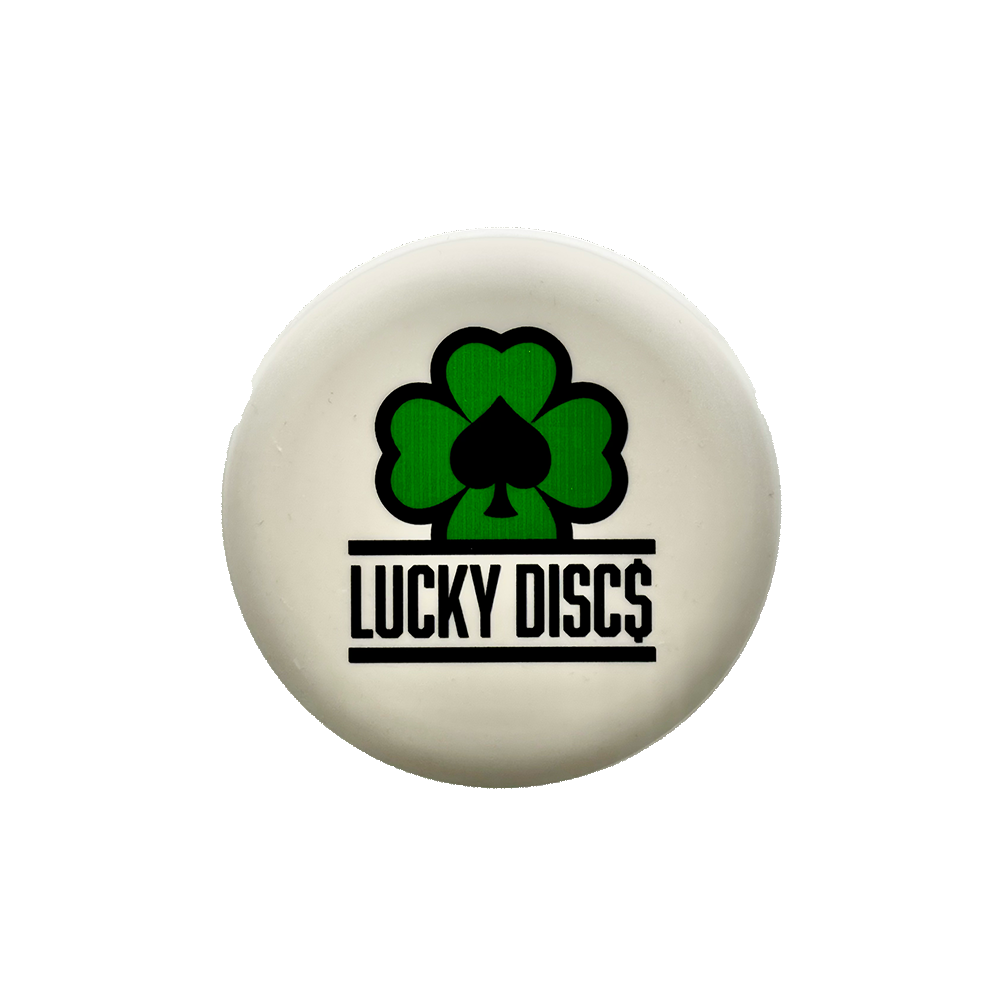
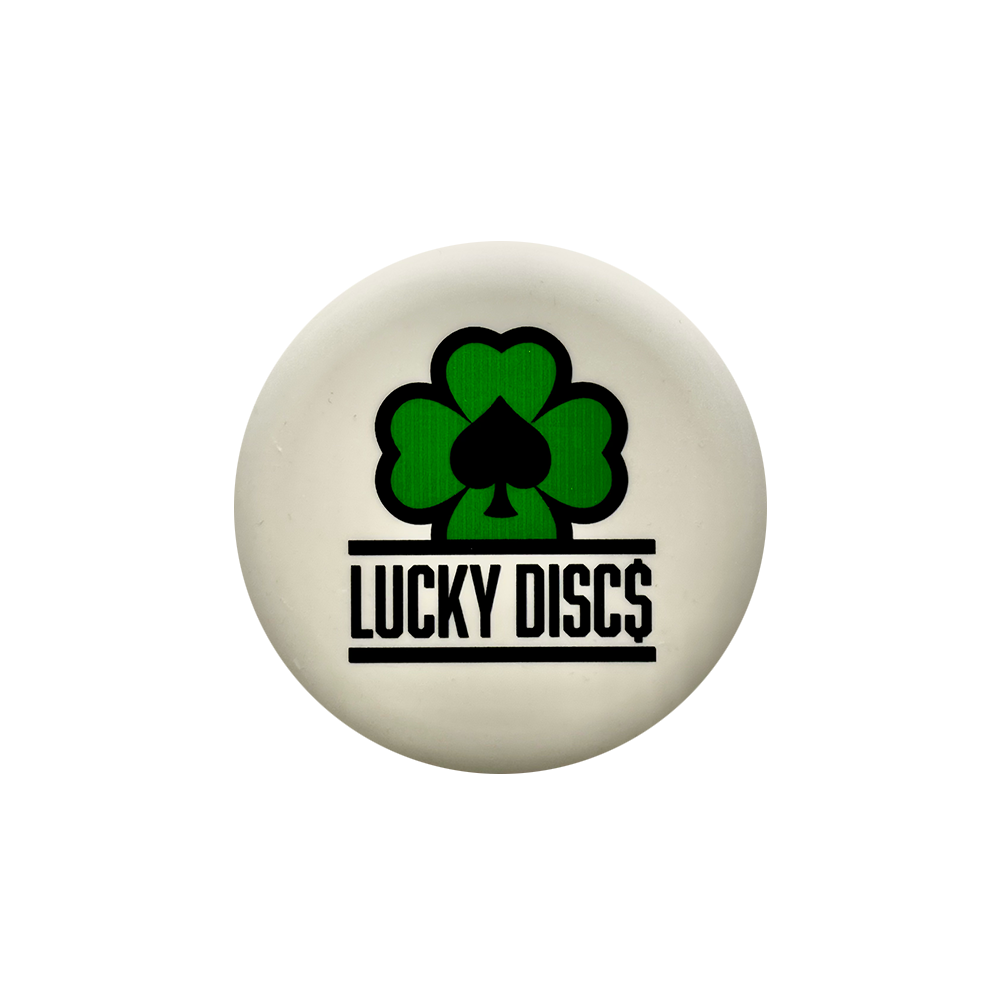
feat: puhdas markkerikuva (ei koloa) + Jailbreak kiekkoesittelyyn + galleria siistiksi
- marker.png: uusi puhdas kuva Drivesta (vanhassa harmaa kolo)
- FeaturedDisc uudistettu: 4 taytta promo-kuvaa (Treasure Hunt, Bank Robber, Money Shot, Jailbreak)
  siisteina kortteina hover-CTA:lla - ei enaa pienennysta/duplikaattitietoja (kuvissa jo nimi+lentoluvut)

diff --git a/src/components/FeaturedDisc.tsx b/src/components/FeaturedDisc.tsx
@@ -4,52 +4,12 @@ import { ArrowRight } from "lucide-react";
 import { Button } from "@/components/ui/button";
 import { useTranslation } from "@/hooks/useTranslation";
 
-interface DiscCard {
-  image: string;
-  name: string;
-  nameKey: string;
-  descKey: string;
-  type: string;
-  flightNumbers: { speed: number; glide: number; turn: number; fade: number };
-  accentColor: string;
-}
-
-const discs: DiscCard[] = [
-  {
-    image: "/images/brand/treasure-hunt-promo.webp",
-    name: "Treasure Hunt",
-    nameKey: "discs.treasureHunt",
-    descKey: "discs.treasureHuntDesc",
-    type: "Distance Driver",
-    flightNumbers: { speed: 12, glide: 6, turn: -1, fade: 3 },
-    accentColor: "lucky-gold",
-  },
-  {
-    image: "/images/brand/kiekkoesittely-02.webp",
-    name: "Bank Robber",
-    nameKey: "discs.bankRobber",
-    descKey: "discs.bankRobberDesc",
-    type: "Fairway Driver",
-    flightNumbers: { speed: 8, glide: 5, turn: -1, fade: 2 },
-    accentColor: "lucky-green",
-  },
-  {
-    image: "/images/brand/kiekkoesittely-03.webp",
-    name: "Money Shot",
-    nameKey: "discs.moneyShot",
-    descKey: "discs.moneyShotDesc",
-    type: "Putter",
-    flightNumbers: { speed: 4, glide: 3, turn: 1, fade: 3 },
-    accentColor: "lucky-gold",
-  },
+const discs = [
+  { image: "/images/brand/treasure-hunt-promo.webp", name: "Treasure Hunt" },
+  { image: "/images/brand/kiekkoesittely-02.webp", name: "Bank Robber" },
+  { image: "/images/brand/kiekkoesittely-03.webp", name: "Money Shot" },
+  { image: "/images/brand/kiekkoesittely-04.webp", name: "Jailbreak" },
 ];
-
-const FlightStat = ({ label, value }: { label: string; value: number }) => (
-  <div className="flex flex-col items-center">
-    <span className="text-xl font-heading text-white leading-none">{value}</span>
-    <span className="text-[10px] font-display uppercase tracking-widest text-white/40 mt-0.5">{label}</span>
-  </div>
-);
 
 const FeaturedDisc = () => {
   const navigate = useNavigate();
@@ -75,81 +35,29 @@ const FeaturedDisc = () => {
           </p>
         </div>
 
-        {/* Three disc cards */}
-        <div className="grid grid-cols-1 md:grid-cols-3 gap-6 mb-12">
+        {/* Promo-kortit — täydet kiekkoesittelykuvat */}
+        <div className="grid grid-cols-1 sm:grid-cols-2 lg:grid-cols-4 gap-6 mb-12">
           {discs.map((disc) => (
-            <div
+            <button
               key={disc.name}
-              className="group relative bg-gradient-to-b from-white/5 to-white/[0.02] border border-white/10 rounded-2xl overflow-hidden cursor-pointer transition-all duration-300 hover:border-white/30 hover:-translate-y-1 hover:shadow-2xl"
-              onClick={() => language === 'fi' ? navigate('/shop') : navigate('/wholesale')}
+              type="button"
+              onClick={() => (language === 'fi' ? navigate('/shop') : navigate('/wholesale'))}
+              aria-label={disc.name}
+              className="group relative rounded-2xl overflow-hidden border border-white/10 hover:border-lucky-green/40 transition-all duration-300 hover:-translate-y-1 hover:shadow-2xl"
             >
-              {/* Hover glow */}
-              <div
-                className={`absolute inset-0 opacity-0 group-hover:opacity-100 transition-opacity duration-300 bg-gradient-to-b ${
-                  disc.accentColor === "lucky-gold"
-                    ? "from-lucky-gold/10 to-transparent"
-                    : "from-lucky-green/10 to-transparent"
-                }`}
+              <img
+                src={disc.image}
+                alt={`Lucky Discs ${disc.name}`}
+                className="w-full h-auto block transition-transform duration-500 group-hover:scale-105"
+                loading="lazy"
               />
-
-              {/* Disc type label */}
-              <div className="absolute top-4 left-4 z-10">
-                <span
-                  className={`font-display text-xs uppercase tracking-widest px-3 py-1 rounded-full border ${
-                    disc.accentColor === "lucky-gold"
-                      ? "border-lucky-gold/40 text-lucky-gold bg-lucky-gold/10"
-                      : "border-lucky-green/40 text-lucky-green bg-lucky-green/10"
-                  }`}
-                >
-                  {disc.type}
+              <div className="absolute inset-0 flex items-end justify-center opacity-0 group-hover:opacity-100 transition-opacity duration-300 bg-gradient-to-t from-black/70 via-transparent to-transparent">
+                <span className="mb-5 inline-flex items-center gap-2 bg-lucky-green text-black font-display font-semibold uppercase tracking-widest text-xs px-5 py-2.5 rounded-full">
+                  {language === 'fi' ? t('featured.shopNow') : t('nav.getWholesaleAccess')}
+                  <ArrowRight className="w-4 h-4" />
                 </span>
               </div>
-
-              {/* Disc image */}
-              <div className="relative pt-14 pb-6 px-6 flex justify-center">
-                <div
-                  className={`absolute inset-0 opacity-20 blur-3xl transition-opacity duration-300 group-hover:opacity-40 ${
-                    disc.accentColor === "lucky-gold" ? "bg-lucky-gold" : "bg-lucky-green"
-                  } rounded-full scale-75`}
-                />
-                <img
-                  src={disc.image}
-                  alt={disc.name}
-                  className="relative z-10 w-52 h-52 md:w-56 md:h-56 lg:w-64 lg:h-64 object-contain transition-transform duration-500 group-hover:scale-110 group-hover:rotate-6 drop-shadow-2xl"
-                  loading="lazy"
-                />
-              </div>
-
-              {/* Disc info */}
-              <div className="px-6 pb-6">
-                <h3 className="font-heading text-3xl text-white tracking-wide mb-1">
-                  {t(disc.nameKey)}
-                </h3>
-                <p className="font-sans text-white/50 text-sm mb-5 line-clamp-2">
-                  {t(disc.descKey)}
-                </p>
-
-                {/* Flight numbers */}
-                <div className="flex justify-between border-t border-white/10 pt-4 mb-6">
-                  <FlightStat label={t('featured.speed')} value={disc.flightNumbers.speed} />
-                  <FlightStat label={t('featured.glide')} value={disc.flightNumbers.glide} />
-                  <FlightStat label={t('featured.turn')} value={disc.flightNumbers.turn} />
-                  <FlightStat label={t('featured.fade')} value={disc.flightNumbers.fade} />
-                </div>
-
-                {/* CTA */}
-                <button
-                  className={`w-full flex items-center justify-center gap-2 font-display font-semibold uppercase tracking-widest text-sm py-3 rounded-xl transition-all duration-200 group-hover:gap-3 ${
-                    disc.accentColor === "lucky-gold"
-                      ? "bg-lucky-gold/15 hover:bg-lucky-gold/25 text-lucky-gold border border-lucky-gold/30"
-                      : "bg-lucky-green/15 hover:bg-lucky-green/25 text-lucky-green border border-lucky-green/30"
-                  }`}
-                >
-                  {language === 'fi' ? t('featured.shopNow') : t('nav.getWholesaleAccess')}
-                  <ArrowRight className="w-4 h-4 transition-transform group-hover:translate-x-1" />
-                </button>
-              </div>
-            </div>
+            </button>
           ))}
         </div>
 
